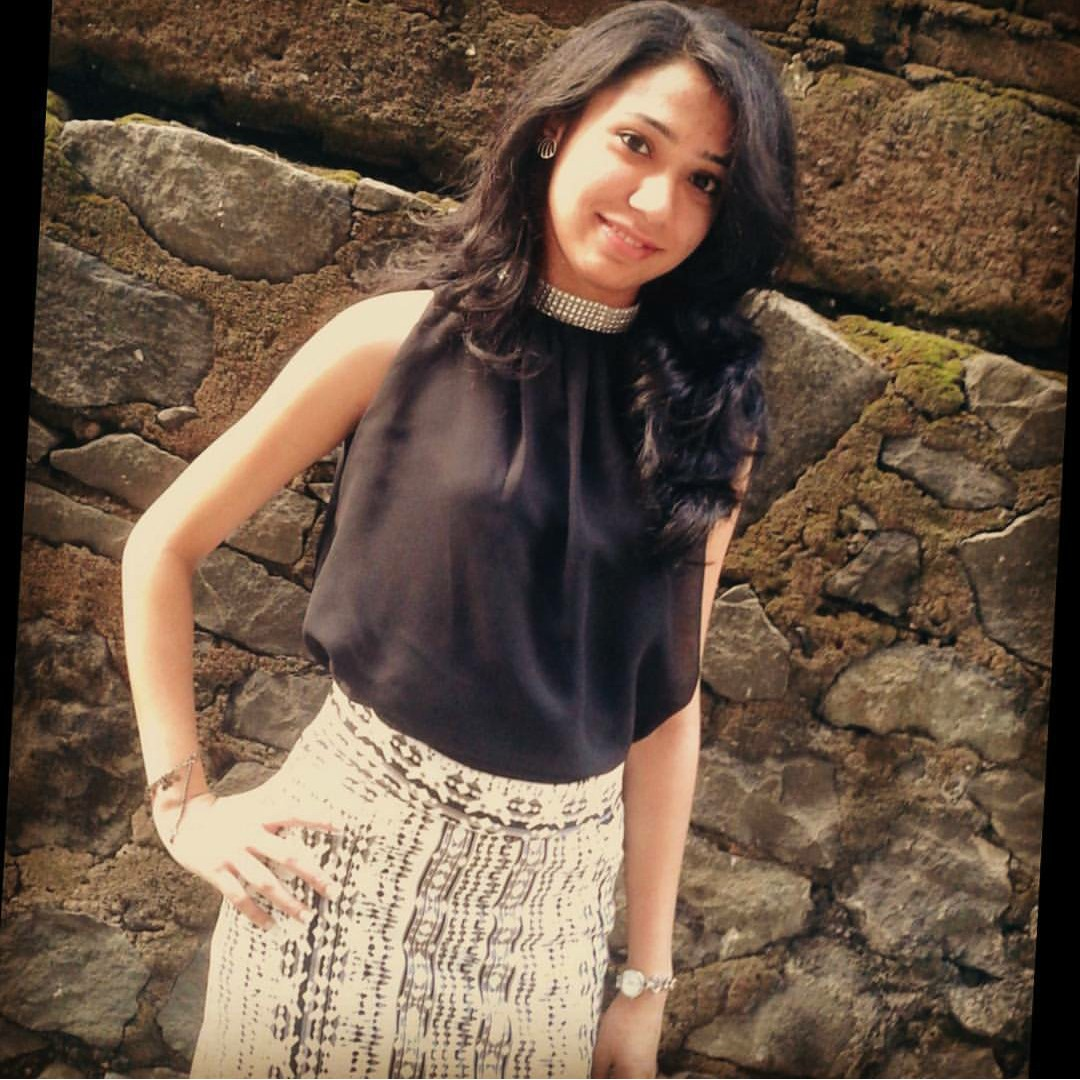
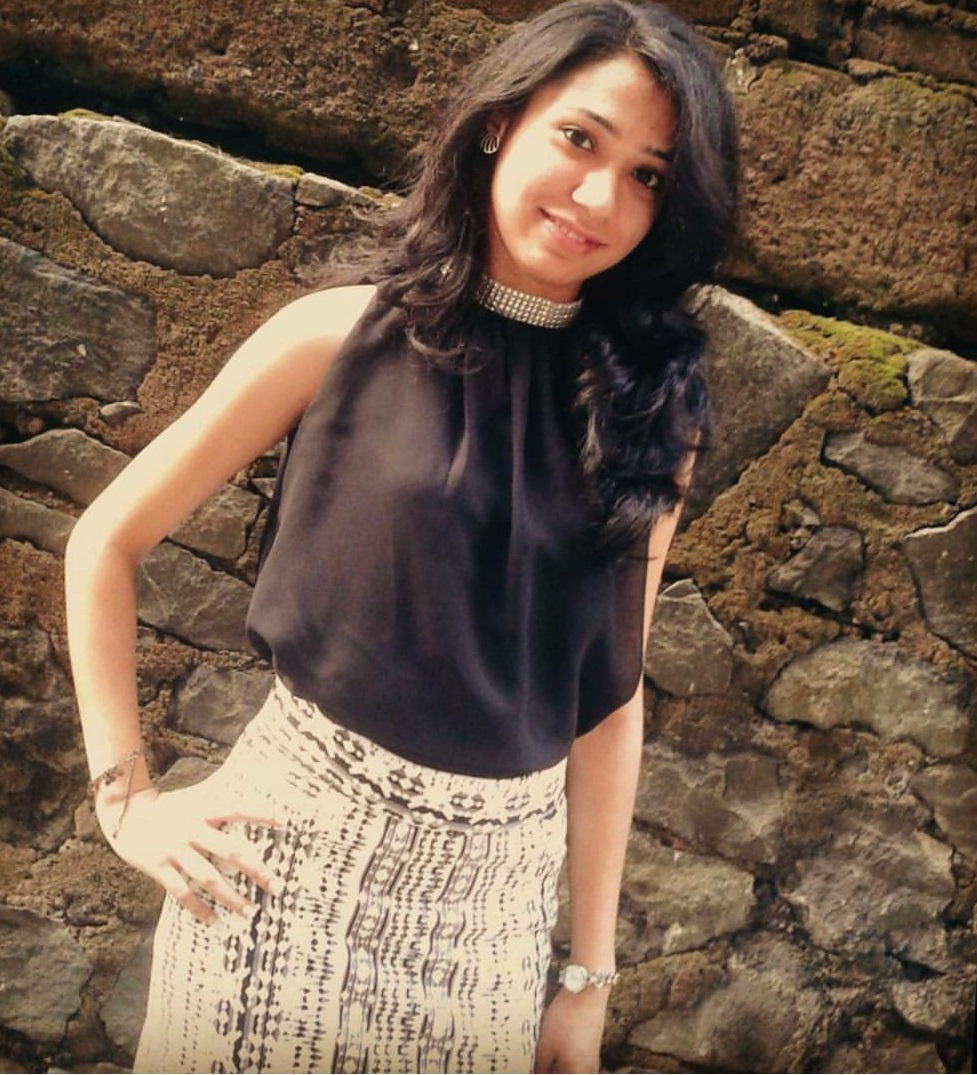
padding and image cropped

diff --git a/index.html b/index.html
@@ -112,7 +112,7 @@
                        or feedback. </p>
                     <p class="text-faded"> Thanks for reading!</p>
                 </div>
-                <div class="col-lg-4 text-center" style="padding-top: 100px">
+                <div class="col-lg-4 text-center" style="padding-top: 70px">
                 <img src="img/mypic5.jpg" class="img-responsive" alt="" style="margin :auto">
                 </div>
             </div>
